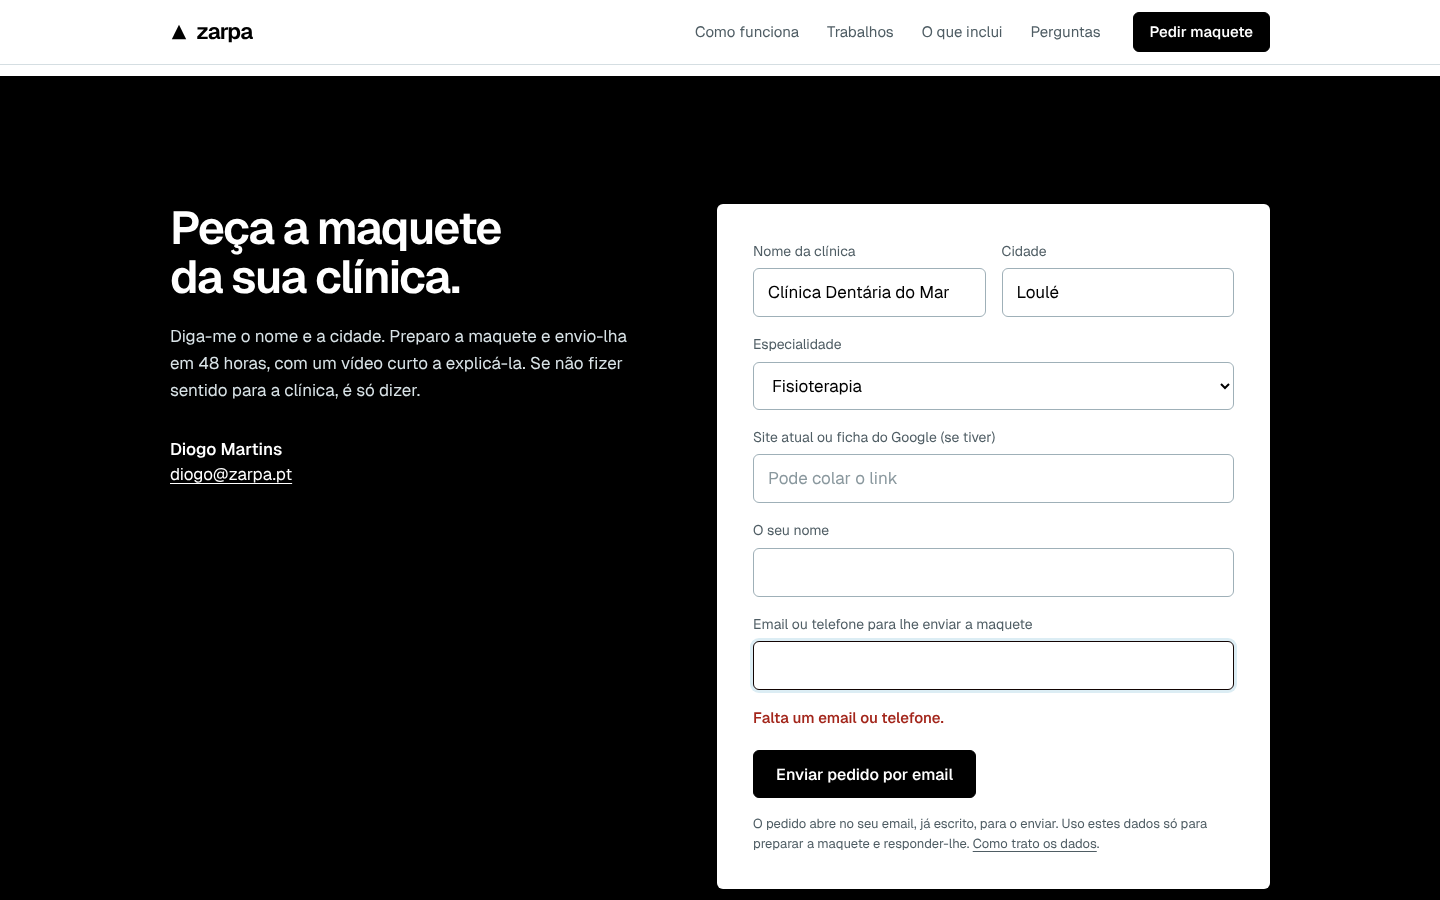
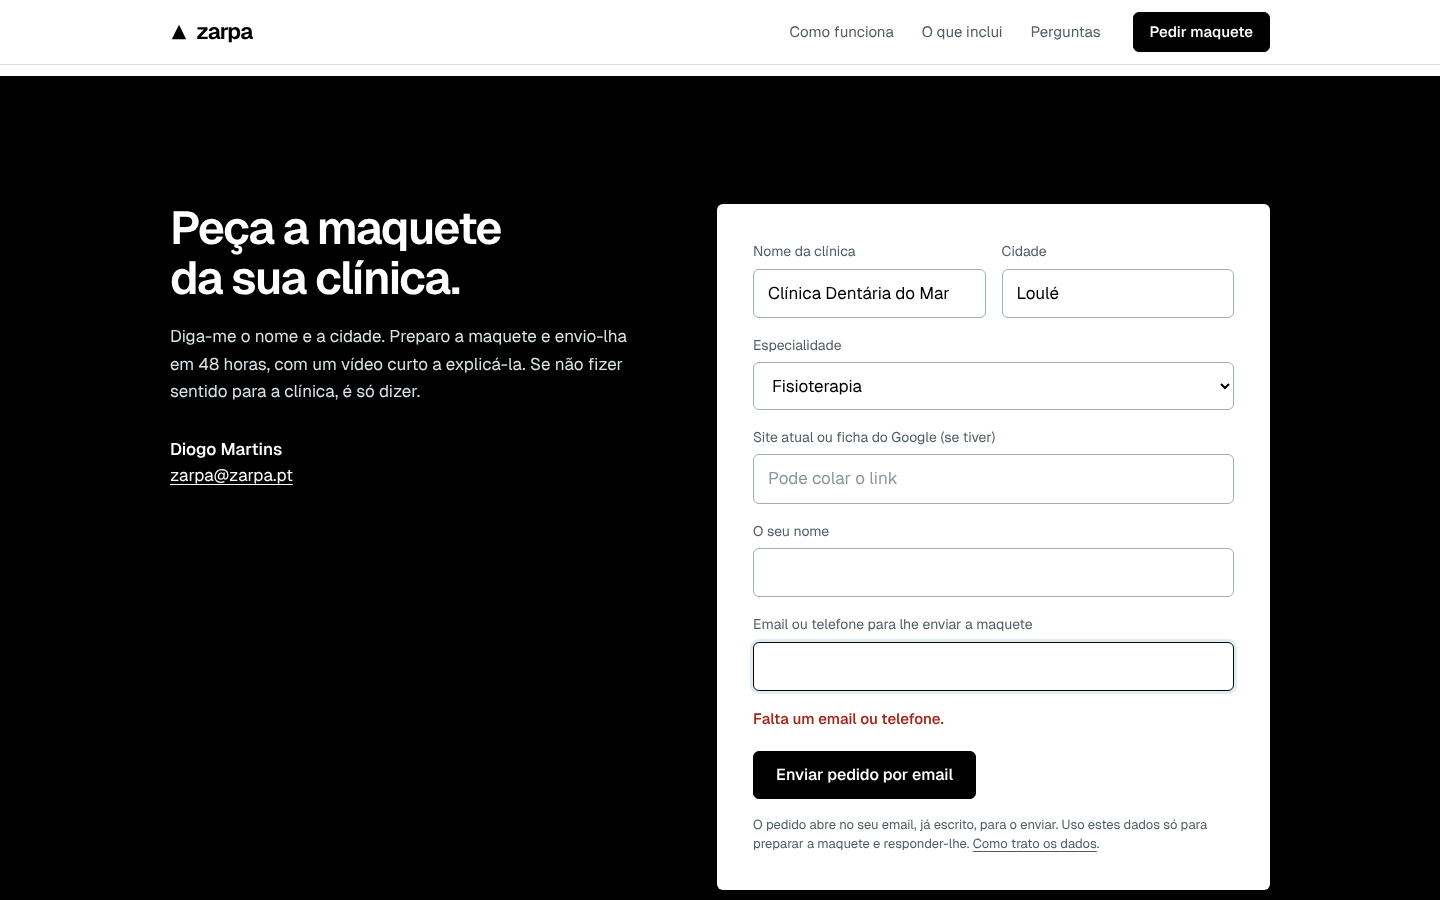
Remove the portfolio section from the zarpa site
Claude-Session: https://claude.ai/code/session_01Fs9AUToAx3kkoKk3Lac5qp

diff --git a/sites/zarpa/public/index.html b/sites/zarpa/public/index.html
@@ -49,7 +49,6 @@
     </a>
     <nav class="nav" aria-label="Principal">
       <a href="#como">Como funciona</a>
-      <a href="#trabalhos">Trabalhos</a>
       <a href="#inclui">O que inclui</a>
       <a href="#perguntas">Perguntas</a>
     </nav>
@@ -171,42 +170,6 @@
   </div>
 </section>
 
-<section class="sec work" id="trabalhos" aria-labelledby="trab-t">
-  <div class="wrap">
-    <div class="work-head">
-      <h2 id="trab-t">Nenhum site sai de um molde.</h2>
-      <p>Cada negócio tem a sua cara. Estas são maquetes que fiz para negócios do Algarve: as cores, as letras e os desenhos vêm da fachada, da ementa ou da oficina, não de um template.</p>
-    </div>
-    <ul class="work-grid">
-      <li class="w w-big">
-        <img src="/assets/trab-oficina-1200.webp" srcset="/assets/trab-oficina-720.webp 720w, /assets/trab-oficina-1200.webp 1200w" sizes="(min-width: 960px) 60vw, 100vw" width="1200" height="750" alt="Maquete do site de uma oficina em Faro: título grande em letra condensada azul e um cartão com o horário do dia." loading="lazy" decoding="async">
-        <p class="w-t">Oficina de reparações, Faro</p>
-        <p class="w-d">O cartão do horário diz se a oficina está aberta agora, e o pedido de orçamento é uma folha de obra para preencher.</p>
-      </li>
-      <li class="w">
-        <img src="/assets/trab-taberna-720.webp" srcset="/assets/trab-taberna-720.webp 720w, /assets/trab-taberna-1200.webp 1200w" sizes="(min-width: 960px) 38vw, 100vw" width="720" height="450" alt="Maquete do site de uma taberna em Faro, com uma cataplana desenhada e um formulário de pedido de mesa." loading="lazy" decoding="async">
-        <p class="w-t">Taberna, Largo do Carmo, Faro</p>
-        <p class="w-d">O pedido de mesa transforma-se numa mensagem de WhatsApp já escrita.</p>
-      </li>
-      <li class="w">
-        <img src="/assets/trab-cantinho-720.webp" srcset="/assets/trab-cantinho-720.webp 720w, /assets/trab-cantinho-1200.webp 1200w" sizes="(min-width: 960px) 32vw, 100vw" width="720" height="450" alt="Maquete do site de um restaurante dentro da muralha de Faro, com o Arco do Repouso desenhado à noite." loading="lazy" decoding="async">
-        <p class="w-t">Restaurante, Vila Adentro, Faro</p>
-        <p class="w-d">O desenho do arco muda do dia para a noite com a hora em Faro.</p>
-      </li>
-      <li class="w">
-        <img src="/assets/trab-cidade-velha-720.webp" srcset="/assets/trab-cidade-velha-720.webp 720w, /assets/trab-cidade-velha-1200.webp 1200w" sizes="(min-width: 960px) 32vw, 100vw" width="720" height="450" alt="Maquete do site de um restaurante junto à Sé de Faro, com a torre da Sé desenhada num postal." loading="lazy" decoding="async">
-        <p class="w-t">Restaurante, Largo da Sé, Faro</p>
-        <p class="w-d">Em português, inglês, francês e alemão, para quem visita a cidade velha.</p>
-      </li>
-      <li class="w">
-        <img src="/assets/trab-piscinas-720.webp" srcset="/assets/trab-piscinas-720.webp 720w, /assets/trab-piscinas-1200.webp 1200w" sizes="(min-width: 960px) 32vw, 100vw" width="720" height="450" alt="Maquete do site de uma empresa de piscinas em Vila Real de Santo António, com o corte de uma piscina e o volume de água calculado." loading="lazy" decoding="async">
-        <p class="w-t">Piscinas, Vila Real de Santo António</p>
-        <p class="w-d">Um simulador calcula a água da piscina com as medidas do cliente e junta-as ao pedido de orçamento.</p>
-      </li>
-    </ul>
-  </div>
-</section>
-
 <section class="sec inc" id="inclui" aria-labelledby="inc-t">
   <div class="wrap">
     <div class="two">
@@ -285,7 +248,7 @@
       </details>
       <details>
         <summary>Só faz sites para clínicas?</summary>
-        <p>Comecei pelas clínicas, mas também faço sites para restaurantes, oficinas e outros negócios locais, como os que vê acima.</p>
+        <p>Comecei pelas clínicas, mas também faço sites para restaurantes, oficinas e outros negócios locais.</p>
       </details>
     </div>
   </div>

diff --git a/sites/zarpa/public/styles.css b/sites/zarpa/public/styles.css
@@ -191,17 +191,6 @@ h3 { font-size: 1.25rem; line-height: 1.25; letter-spacing: -.02em; font-weight:
 .step h3 { margin-top: 6px; }
 .step h3 + p { margin-top: 10px; color: #1d2a30; font-size: 1rem; }
 
-/* trabalhos */
-.work-head { display: grid; grid-template-columns: 5fr 6fr; gap: clamp(32px, 6vw, 96px); align-items: end; }
-.work-head p { color: #1d2a30; }
-.work-grid { display: grid; grid-template-columns: repeat(12, 1fr); gap: 40px 24px; margin-top: 56px; }
-.w { grid-column: span 4; }
-.w-big { grid-column: span 7; }
-.w-big + .w { grid-column: span 5; align-self: end; }
-.w img { width: 100%; aspect-ratio: 16 / 10; object-fit: cover; object-position: top; border: 1px solid var(--rule); border-radius: var(--r); background: var(--shoal); }
-.w-t { margin-top: 14px; font-weight: 600; }
-.w-d { margin-top: 4px; font-size: .9375rem; color: var(--muted); }
-
 /* o que inclui */
 .base { display: grid; grid-template-columns: 1fr 1fr; gap: 28px 32px; }
 .base dt { font-weight: 600; }
@@ -261,10 +250,8 @@ h3 { font-size: 1.25rem; line-height: 1.25; letter-spacing: -.02em; font-weight:
   .phone-fig { position: static; display: grid; justify-items: center; }
   .phone-fig figcaption { text-align: center; }
   .phone { max-width: 300px; }
-  .two, .work-head { grid-template-columns: 1fr; }
+  .two { grid-template-columns: 1fr; }
   .steps { grid-template-columns: 1fr 1fr; }
-  .w, .w-big, .w-big + .w { grid-column: 1 / -1; }
-  .work-grid { grid-template-columns: 1fr; gap: 40px; }
   .packs { grid-template-columns: 1fr; }
   .pk, .pk + .pk { padding: 24px 0; border-left: 0; }
   .pk + .pk { border-top: 1px solid var(--rule); }

diff --git a/sites/zarpa/README.md b/sites/zarpa/README.md
@@ -25,7 +25,6 @@ node sites/zarpa/tools/qa/shots.mjs
 | Pacotes Completo / Profissional / Essencial e o que incluem, do mais caro para o mais barato | `plano.md` §2 ("conteúdo a confirmar") |
 | Lista do que é verificado em cada clínica | evidências do `icebreaker-writer` (`plano.md` §3, passo 5) |
 | Maquete em 48 h | `plano.md` §3, passo 7 |
-| Trabalhos | capturas em `sites/*/qa/` das maquetes de Faro e VRSA |
 | Privacidade: fontes e subcontratantes dos contactos frios | `plano.md` §1 e §3 |
 
 **Preços não aparecem no site**, de propósito: `vendas/conhecimento/psicologia-venda.md` diz que o preço só aparece depois de verem a maquete. O texto diz que o valor vai na proposta e que não se paga nada adiantado. Se quiserem mostrar "a partir de 910", é uma linha em `.pk-note`.
@@ -35,7 +34,6 @@ node sites/zarpa/tools/qa/shots.mjs
 - `[DENOMINAÇÃO SOCIAL]`, `[NIF]`, `[MORADA]` no rodapé de `index.html` e `privacidade.html`, e a entidade RAL competente em `privacidade.html#litigios`.
 - WhatsApp/telefone do Diogo: preencher `CONTACTO.whatsapp` em `app.js` (formato `3519XXXXXXXX`) para aparecer o botão "Enviar por WhatsApp".
 - "Feitos no Algarve" no rodapé — confirmar.
-- **Trabalhos:** as cinco capturas são maquetes de negócios reais (Areal Auto, Cantinho, Cidade Velha, Taberna Zé-Zé, Mar Martins) que ainda não são clientes. O site não diz os nomes, mas eles aparecem nas imagens. Pedir autorização a cada um antes de publicar, ou trocar por trabalhos de clientes.
 - Domínio `zarpa.pt` e registo da marca (INPI/RNPC), como em `marca.md`.
 
 ## Notas técnicas
